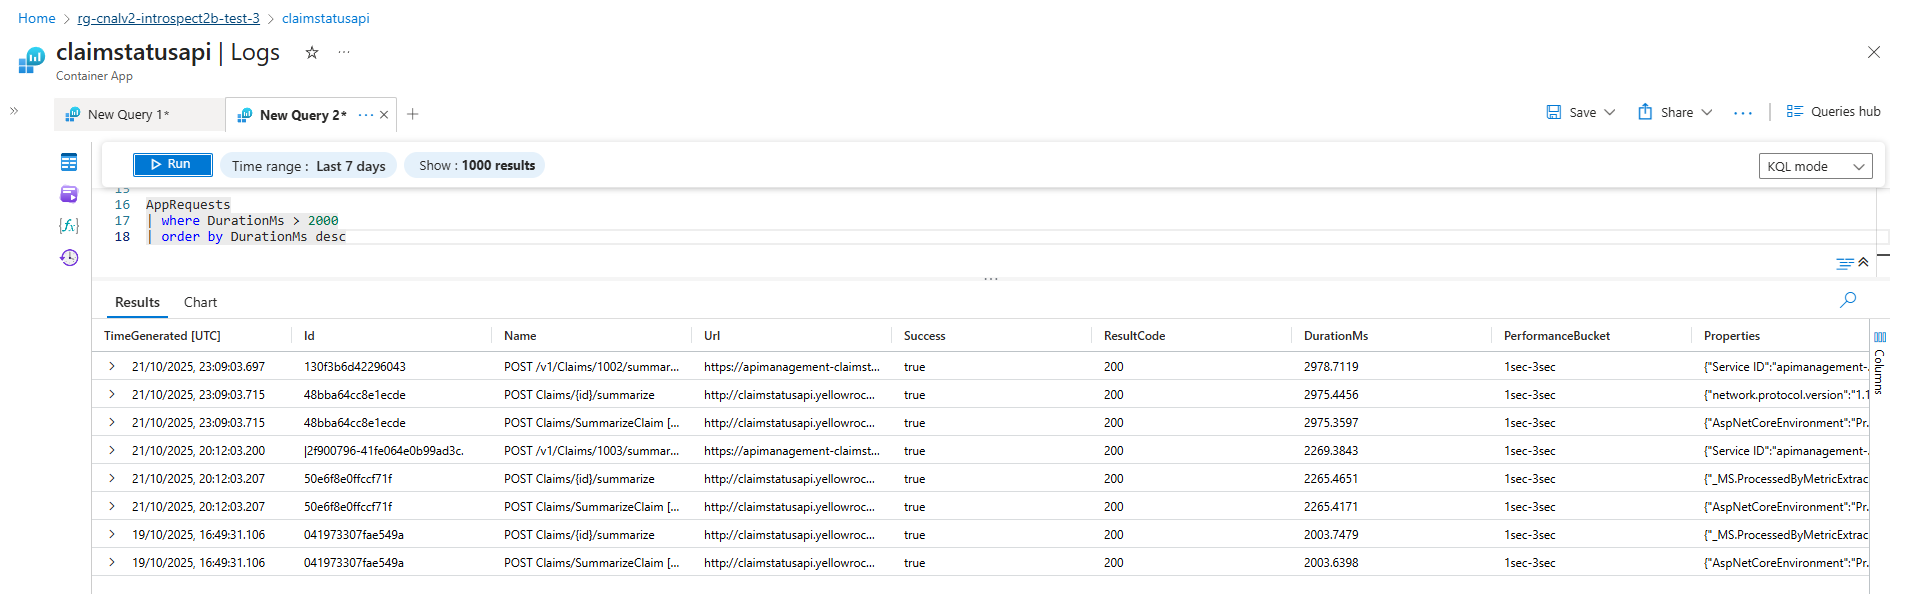
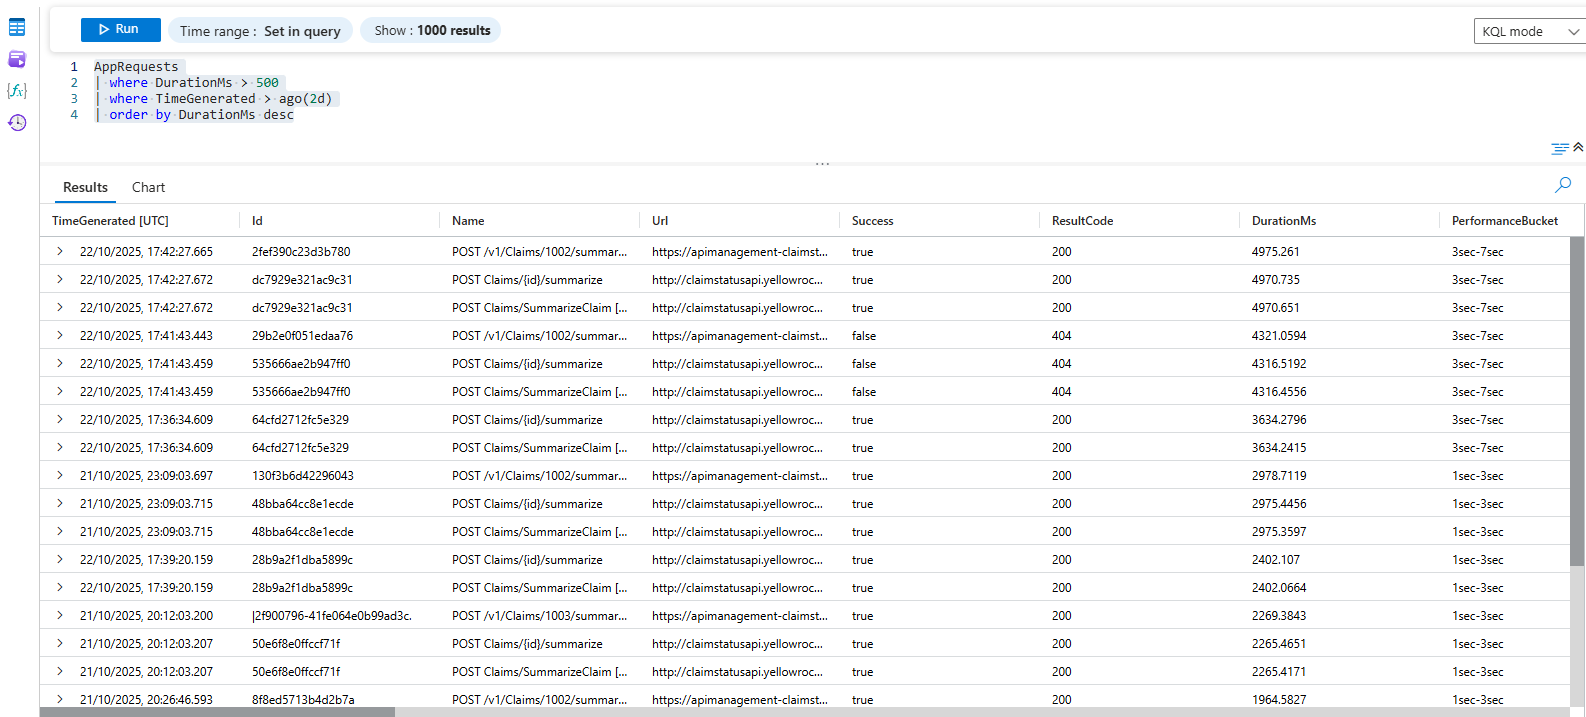
Add incident digests for high latency requests

diff --git a/README.md b/README.md
@@ -18,40 +18,49 @@ A Claim Status API for an academic exercise.
 ```
 
 claim-status-api/
-├── src/                                    # service source + Dockerfile
-│   ├── ClaimStatusAPI/                     # Claim Status API project folder
+├── src/                                            # ====== CLAIM STATUS API SOURCE CODE =====
+│   ├── ClaimStatusAPI/                             # Claim Status API project folder
 │   │   ├── Controllers/
 │   │   ├── Models/
 │   │   ├── mocks/
-│   │   │   ├── claims.json                 # 5x claim records
-│   │   │   └── notes.json                  # 5x notes blobs
-│   │   ├── Dockerfile                      # Dockerfile for Claim Status API
+│   │   │   ├── claims.json                         # 5x claim records
+│   │   │   └── notes.json                          # 5x notes blobs
+│   │   ├── Dockerfile                              # Dockerfile for Claim Status API
 │   │   └── ClaimStatusAPI.csproj
-│   └── ClaimStatusAPI.UnitTests            # Claim Status API unit tests project folder
+│   └── ClaimStatusAPI.UnitTests                    # Claim STatus API unit tests folder
 │       └── ClaimStatusAPI.UnitTests.csproj
-├── apim/                                   # APIM policy files or export
-│   ├── claimstatusapi-swagger.json         # OpenAPI json for APIM deployment
-│   └── rate-limit-policy.xml               # APIM rate limit policy definition
-├── documentation/                          # auto-generated docs and references
-│   ├── auto-generated-adr.md               # GenAI generated Architectural Decision Records
-│   └── auto-generated-api-reference.md     # GenAI generated API reference
-├── iac/                                    # Az CLI templates
-│   ├── provisioned-azure-services.md       # The deployed services
-│   ├── create-apim.ps1                     # Deploy APIM instance
-│   ├── create-infrastructure.ps1           # Provision core Azure infrastructure
-│   ├── setup-apim.ps1                      # Import API spec and configure APIM
-│   └── variables.ps1                       # Deployment variables
-├── pipelines/
-│   ├── azure-pipelines.yml                 # Azure DevOps pipeline
-│   └── pipeline-run-complete.md            # Details of pipeline execution
-├── scans/                                  # link/screenshots to Defender findings
-│   └── security-scans.md                   # Details of security scans
-├── observability/                          # saved KQL queries and sample screenshots
-│   ├── end-point-tests.md                  # Observed successful application executions
-│   ├── end-to-end-correlated-traces.md     # Observed traces and KQL queries
-│   ├── failure-responses.md                # Observed failed requests and KQL queries
-│   ├── high-latency-traces.md              # Observed high-latency requests and KQL queries
-│   └── incident-digests.md                 # GenAI Incident Digests
+│
+├── apim/                                           # ====== APIM DEFINITIONS & POLICIES ======
+│   ├── apim-logs.md                                # DOCS: APIM logs from Log Analytics
+│   ├── claimstatusapi-swagger.json                 # OpenAPI json for APIM deployment
+│   └── rate-limit-policy.xml                       # APIM rate limit policy definition
+│
+├── documentation/                                  # ===== AUTO-GENERATED DOCUMENTATION ======
+│   ├── auto-generated-adr.md                       # DOCS: GenAI generated Architectural Decision Records
+│   └── auto-generated-api-reference.md             # DOCS: GenAI generated API reference
+│
+├── iac/                                            # ======== INFRASTRUCTURE AS CODE =========
+│   ├── provisioned-azure-services.md               # DOCS: The deployed services
+│   ├── create-apim.ps1                             # Deploy APIM instance
+│   ├── create-infrastructure.ps1                   # Provision core Azure infrastructure
+│   ├── setup-apim.ps1                              # Import API spec and configure APIM
+│   └── variables.ps1                               # Deployment variables
+│
+├── pipelines/                                      # ========= PIPELINE DEFINITIONS ==========
+│   ├── azure-pipelines.yml                         # Azure DevOps pipeline
+│   └── pipeline-run-complete.md                    # Details of pipeline execution
+│
+├── scans/                                          # ======= SECURITY SCANS & FINDINGS =======
+│   └── security-scans.md                           # DOCS: Details of security scans
+│
+├── observability/                                  # ==== OBSERVATIONS, TRACES & INSIGHTS ====
+│   ├── end-point-tests.md                          # DOCS: Observed successful application executions
+│   ├── end-to-end-correlated-traces.md             # DOCS: Observed traces and KQL queries
+│   ├── failure-responses.md                        # DOCS: Observed failed requests and KQL queries
+│   ├── high-latency-traces.md                      # DOCS: Observed high-latency requests and KQL queries
+│   ├── incident-digests-failure-responses.md       # DOCS: GenAI Incident Digests for logged failure responses
+│   └── incident-digests-high-latency-requests.md   # DOCS: GenAI Incident Digests for logged high latency requests
+│
 ├── README.md
 └── claim-status-api.sln
 ```
@@ -383,7 +392,9 @@ Setting the `Correlation protocol` to `W3C` for APIM App Insights enables end-to
 #### Incident Digests
 Failied AppRequests logged in Log Analytics were exported and plain English Incident Digest reports were produced for each failure response code.
 
-> Details of the prepared Incident Digests can be seen in [incident-digests.md](observability/incident-digests.md)
+> Details of the prepared Incident Digests for logged Failure Responses can be seen in [incident-digests-failure-responses.md](observability/incident-digests-failure-responses.md)
+
+> Details of the prepared Incident Digests for logged High Latency Requests can be seen in [incident-digests-high-latency-requests.md](observability/incident-digests-high-latency-requests.md)
 
 ## Local execution
 ### Vanilla .net HTTP service

diff --git a/observability/incident-digests-high-latency-requests.md b/observability/incident-digests-high-latency-requests.md
@@ -1,0 +1,59 @@
+# Incident Digests for High Latency Requests
+1. The KQL results shown in [high-latency-traces.md](high-latency-traces.md) were exported as CSV from Log Analytics and saved as CSV in [AppRequests-high-latency-last-2d.csv](AppRequests-high-latency-last-2d.csv)
+2. A prompt was constructed and passed to GenAI to request a brief Incident Digest for each failure response code
+
+## Incident Digest Prompt
+> @workspace Consider the Log Analytics output in `AppRequests-high-latency-last-2d.csv` showing various high latency requests over the last 2 days.
+>
+>Identify trends or groups. Consider what each endpoint or request is doing and whether the observed latency is expected, acceptable or otherwise. Prepare a brief Incident Digest using the `### Incident digest template`
+
+### Incident digest template
+```
+# Incident Digest
+
+**Summary:**  
+Between {start_time} and {end_time}, the Claim Status API experienced {failure_count} failed requests and {high_latency_count} high-latency requests.
+
+**Top Issues:**
+- Most common error: {top_error_code} on endpoint {top_error_endpoint}
+- Highest latency observed: {max_latency} ms on endpoint {max_latency_endpoint}
+
+**Next Steps:**
+- Investigate root cause for {top_error_code} errors.
+- Review performance for endpoints exceeding 2s latency.
+- Check recent deployments or configuration changes.
+
+**Recommended Actions:**
+- [ ] Assign investigation to on-call engineer.
+- [ ] Notify stakeholders if SLA is breached.
+- [ ] Document findings and mitigation steps.
+```
+
+## Incident Digest prompt results
+The following results were prepared by GenAI through inspecting the KQL results as CSV.
+
+High latency is expected for the summarization endpoint due to the nature of AI inference, but should be monitored and bounded. 404s with high latency may indicate additional backend or data issues that warrant investigation..
+
+### Incident Digest
+
+**Summary:**  
+Between 21/10/2025 20:11:56 and 22/10/2025 17:42:27, the Claim Status API experienced 13 high-latency requests (over 2 seconds), primarily on the POST /v1/Claims/{id}/summarize endpoint, with durations ranging from ~2.2s up to ~5s.
+
+**Top Issues:**
+- Most common high-latency endpoint: POST /v1/Claims/{id}/summarize via APIM and Container App backend
+- Highest latency observed: 4975 ms on POST /v1/Claims/1002/summarize (APIM and backend)
+- All high-latency requests are associated with claim summarization, which involves an OpenAI call
+- Occasional 404s with high latency, indicating backend routing or data issues
+
+**Next Steps:**
+- Review OpenAI model response times and investigate if latency is due to external dependency
+- Check for any backend processing bottlenecks in ClaimsService or OpenAiService
+- Validate that high latency is expected for summarization (due to AI inference) and document acceptable thresholds
+- Investigate 404s with high latency for possible routing or data consistency issues
+
+**Recommended Actions:**
+- [ ] Set explicit latency SLO/SLA for summarization endpoints (e.g., <5s for POST /claims/{id}/summarize)
+- [ ] Monitor OpenAI dependency latency and consider retries or timeouts
+- [ ] Add user-facing messaging if summarization is expected to be slow
+- [ ] Review and optimize backend code for prompt construction and response parsing
+- [ ] Investigate and resolve high-latency 404s to improve error handling and routing

diff --git a/observability/high-latency-traces.md b/observability/high-latency-traces.md
@@ -5,8 +5,14 @@ Find requests that took longer than 2000ms to return:
 ```
 AppRequests
 | where DurationMs > 2000
+| where TimeGenerated > ago(3d)
 | order by DurationMs desc
 ```
 
 ### KQL query results
 ![high-latency-traces](images/high-latency-traces.png)
+
+### Incident Digests
+High Latency AppRequests logged in Log Analytics were exported and plain English Incident Digest reports were produced.
+
+> Details of the prepared Incident Digests can be seen in [incident-digests-high-latency-requests.md](incident-digests-high-latency-requests.md)

diff --git a/observability/failure-responses.md b/observability/failure-responses.md
@@ -28,4 +28,4 @@ Various failures are recorded for the past 3 hours
 ### Incident Digests
 Failied AppRequests logged in Log Analytics were exported and plain English Incident Digest reports were produced for each failure response code.
 
-> Details of the prepared Incident Digests can be seen in [incident-digests.md](incident-digests.md)
+> Details of the prepared Incident Digests can be seen in [incident-digests-failure-responses.md](incident-digests-failure-responses.md)

diff --git a/observability/incident-digests-failure-responses.md b/observability/incident-digests-failure-responses.md
@@ -1,4 +1,4 @@
-# Incident Digests
+# Incident Digests for Failure Responses
 1. The KQL results shown in [failure-responses.md](failure-responses.md) were exported as CSV from Log Analytics and saved as CSV in [AppRequests-failure-responses-last-24h.csv](AppRequests-failure-responses-last-24h.csv)
 2. A prompt was constructed and passed to GenAI to request a brief Incident Digest for each failure response code
 

diff --git a/apim/apim-logs.md b/apim/apim-logs.md
@@ -1,0 +1,12 @@
+# APIM Logs
+
+## KQL query - top 10 failures
+```
+ApiManagementGatewayLogs
+| where TimeGenerated > ago(2d) and ResponseCode >= 400
+| summarize Failures=count() by Url, ResponseCode
+| top 10 by Failures
+```
+
+### KQL results
+![apim-4xx-errors](images/apim-4xx-errors.png)
